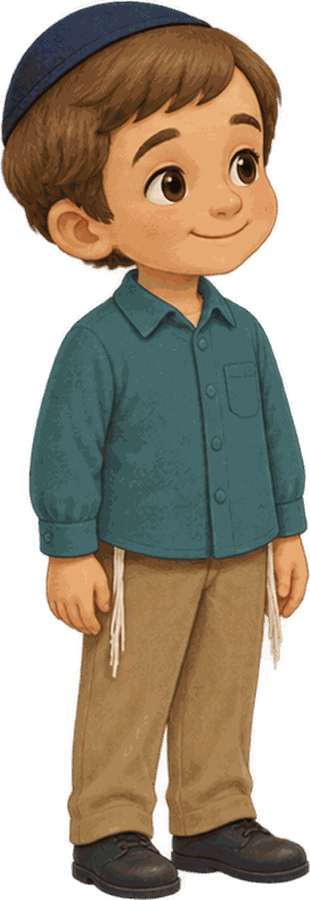
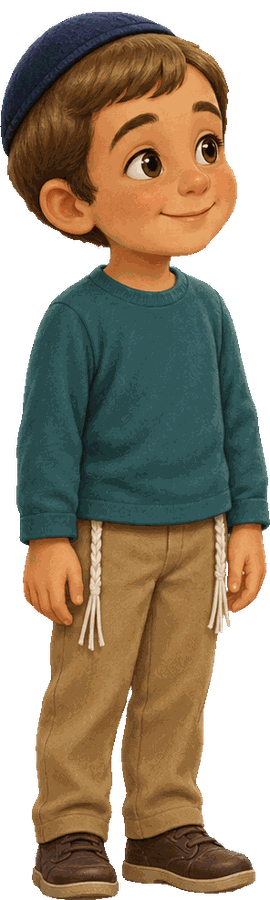
2.0 K shapes look: corrected pictures in - calm beach and farm mats (all 12 worlds have a painted mat), the party mat to the edges, a new Avi, the round rainbow kite for the sky circle
Claude-Session: https://claude.ai/code/session_01T5wrckVZWpBXtuZk8naXea

diff --git a/v2/app/k-shapes/treasures.js b/v2/app/k-shapes/treasures.js
@@ -513,7 +513,7 @@ export function createTreasures({ world, PM: PM0, paint, FAST, ANISO, vivid = c 
     'farm-tire-round.png', 'garden-sunflower-round.png', 'party-bunting-surface.jpg', 'party-cake-round.png', 'party-gift-surface.jpg', 'sky-basket-surface.jpg', 'sky-cloudtile-surface.jpg',
     'sky-goldstar-surface.jpg', 'space-fin-surface.jpg', 'space-panel-surface.jpg', 'space-planet-round.png', 'space-solar-surface.jpg', 'toy-drum-round.png',
     'garden-planter-surface.jpg', 'garden-stone-surface.jpg', 'garden-flag-surface.jpg', 'toy-brick-surface.jpg', 'toy-sail-surface.jpg', 'toy-puzzle-surface.jpg', 'sky-kitecloth-surface.jpg',
-    'beach-mould-surface.jpg', 'party-tile-surface.jpg', 'party-foil-surface.jpg', 'jungle-carved-surface.jpg', 'jungle-leaf-surface.jpg', 'winter-knit-surface.jpg']);
+    'beach-mould-surface.jpg', 'sky-kite-round.png', 'party-tile-surface.jpg', 'party-foil-surface.jpg', 'jungle-carved-surface.jpg', 'jungle-leaf-surface.jpg', 'winter-knit-surface.jpg']);
   T.artList = () => [...HAVE];
   const loader = new THREE.TextureLoader(), texCache = {};
   function artTex(pic) { return texCache[pic] || (texCache[pic] = (() => { const t = loader.load('art/' + pic); t.colorSpace = THREE.SRGBColorSpace; t.anisotropy = ANISO; t.wrapS = t.wrapT = THREE.RepeatWrapping; return t; })()); }

diff --git a/v2/app/k-shapes/look.js b/v2/app/k-shapes/look.js
@@ -165,7 +165,7 @@ export function createLook({ renderer, scene, camera, FAST, world }) {
   }
   /* the stage: the round mat in the middle where the shapes sit (its top is at 0.1, like the rug) */
   /* painted round mats that have arrived and been checked by eye (art/mat-<world>.png; k-shapes-art-requests.md) */
-  const MATS = new Set(['toyland', 'garden', 'sky', 'bakery', 'space', 'underwater', 'traintown', 'jungle', 'snow', 'party']);
+  const MATS = new Set(['toyland', 'garden', 'sky', 'bakery', 'space', 'beach', 'underwater', 'traintown', 'jungle', 'snow', 'farm', 'party']);
   function stage(draw, o = {}) {
     const t = paint(1024, 1024, (x, w) => draw(x, w / 2, w));
     const top = new PM({ color: '#FFFFFF', map: t, roughness: o.rough || 0.9, sheen: o.sheen == null ? 0.8 : o.sheen, sheenColor: new THREE.Color(o.sheenColor || '#FFF6E8'), sheenRoughness: 0.7, clearcoat: o.coat || 0, clearcoatRoughness: 0.3 });

diff --git a/v2/curriculum/k-shapes-art-requests.md b/v2/curriculum/k-shapes-art-requests.md
@@ -21,3 +21,4 @@ The game cuts every picture to the exact shape (the outline in `kit.js`), so a t
 - **In the game:** the 3 corrections (tire with a smooth round edge, garden planter slats, garden stone); toy bricks, toy sail, toy puzzle, garden flag, sky kite cloth, beach mould, party tile, party foil, jungle carved wood, jungle leaf, winter knit (the scarves); 10 round mats (toy land, garden, sky, bakery, space, underwater, train town, jungle, winter, party); 5 friends (Dovid, Shloimy, Ari, Avi, Yossi: idle, talk, happy) and Shmuel's happy hop. Friends are trimmed to one shared frame per boy so all the boys show at the same size.
 - **Sent back (05:45 UTC, on the K4 thread):** mat-beach and mat-farm (busy middle; stripes and gingham only as a border please), mat-party (circle short of the bottom edge; the current one is in the game meanwhile), Avi (clearly olive skin, a face less like Ari's; the current one is in the game meanwhile), sky-kite-round (wavy edge, does not touch the edges), farm-stone (smudgy, photo-like).
 - **Received, not used yet** (kept aside, not in the repository): winter ice and snowball, sea pearl, chest, shell and glass, train wheel, car and sign. No current game shows those flat shapes; the solids under the sea and the train cars are made in code.
+- **06:31 UTC check:** the 8 corrections arrived (sent 05:49) and all pass: mat-beach and mat-farm now have calm middles with the stripes / gingham only as a border; mat-party reaches the edges; Avi is a clearly different boy with olive skin (a thin coloured fringe around his hop picture was cleaned off); the sky kite is a true round rainbow (now the sky circle); farm-stone is fine but not used yet. All 12 worlds now have their painted mat.
